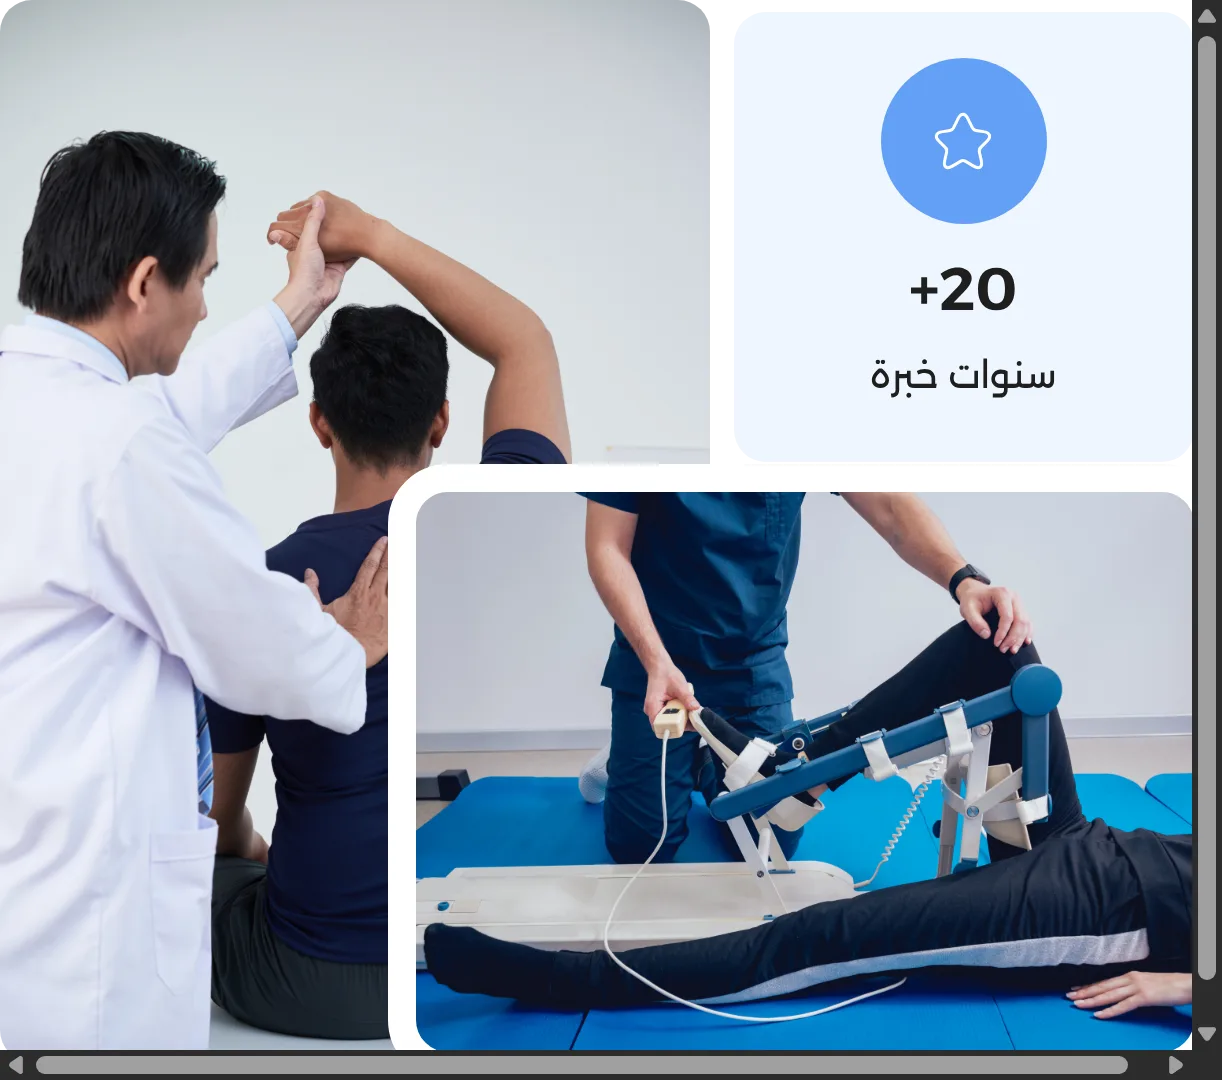
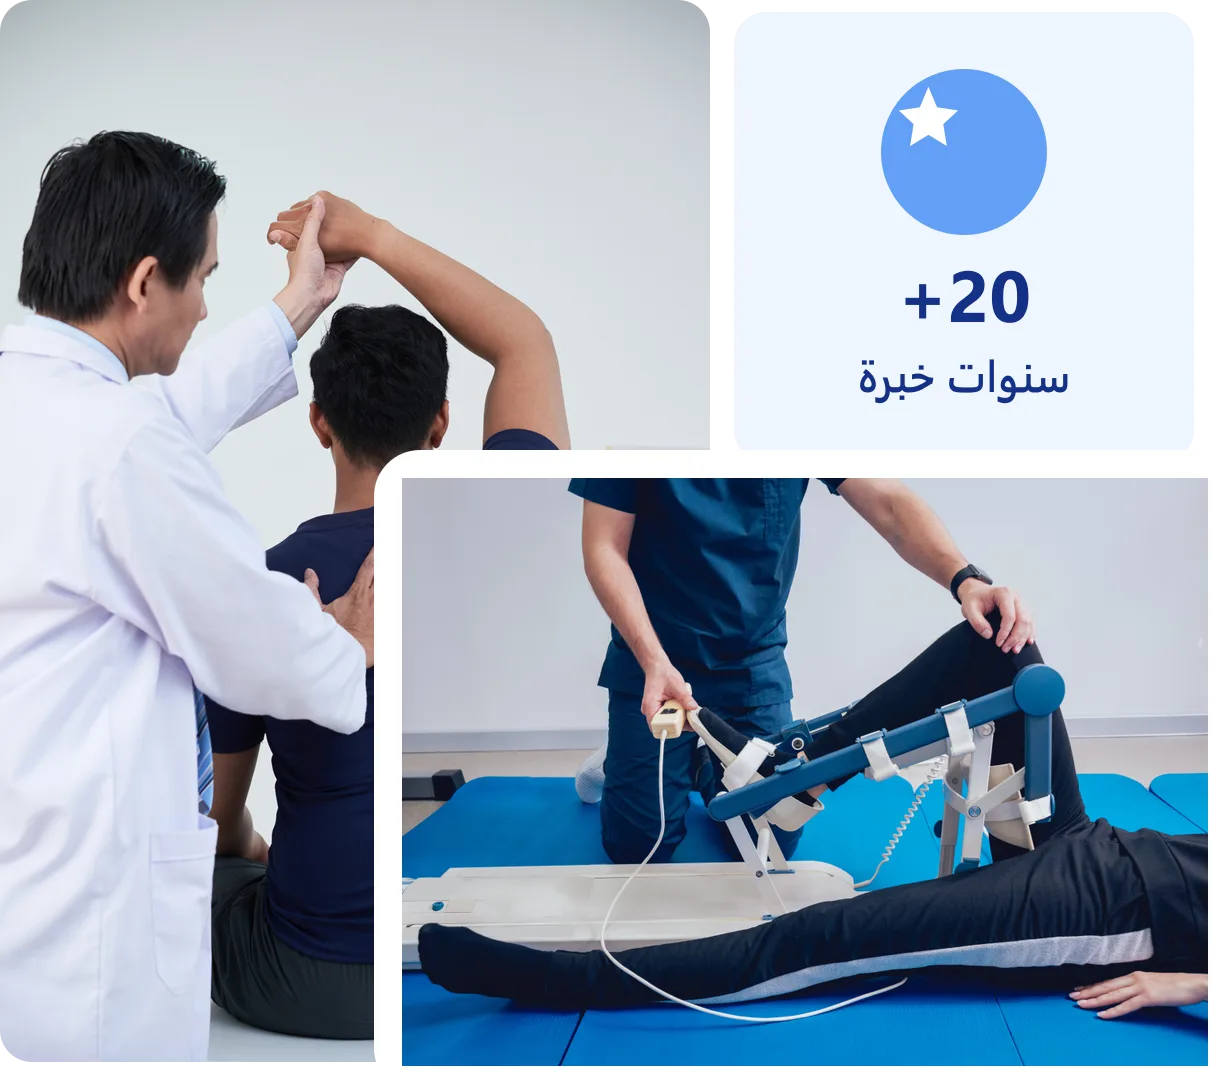
handel updates

diff --git a/src/app/[locale]/(SharedLayout)/(homepage)/_components/AboutAppTwoColumns.tsx b/src/app/[locale]/(SharedLayout)/(homepage)/_components/AboutAppTwoColumns.tsx
@@ -3,20 +3,65 @@
 import Link from "next/link";
 import Image from "next/image";
 import { motion, useReducedMotion } from "framer-motion";
-import { ArrowLeft } from "lucide-react";
+import { ArrowLeft, Star } from "lucide-react";
 import { parseCmsHtml } from "@/lib/parse-cms-html";
 import { toSecureMediaUrl } from "@/lib/image-url";
 import { useIsMobile } from "@/Hooks/use-mobile";
 
-function resolveAboutImage(aboutHomeSection?: any): string {
-  const cms = toSecureMediaUrl(
-    aboutHomeSection?.Posts?.[0]?.attachment?.[0]?.original,
+function AboutCollage({
+  locale,
+  title,
+}: {
+  locale: string;
+  title?: string;
+}) {
+  const alt =
+    title || (locale === "ar" ? "عن هوم هيليرز" : "About Home Healers");
+
+  return (
+    <div
+      className="relative mx-auto aspect-[611/540] w-full max-w-[597px]"
+      aria-label={alt}
+    >
+      {/* Tall left photo */}
+      <div className="absolute inset-y-0 start-0 w-[58%] overflow-hidden rounded-2xl">
+        <Image
+          src="/assets/images/homehellers/about-photo-1.webp"
+          alt=""
+          fill
+          priority
+          sizes="(max-width: 1280px) 60vw, 350px"
+          className="object-cover object-[center_20%]"
+          quality={80}
+        />
+      </div>
+
+      {/* Experience card */}
+      <div className="absolute end-0 top-[1%] flex h-[42%] w-[37.5%] flex-col items-center justify-center rounded-2xl bg-[#eff6fe] px-3 text-center">
+        <div className="mb-3 flex h-14 w-14 items-center justify-center rounded-full bg-[#62a0f6] sm:mb-4 sm:h-[83px] sm:w-[83px]">
+          <Star className="h-7 w-7 fill-white text-white sm:h-9 sm:w-9" />
+        </div>
+        <p className="text-2xl font-bold leading-none text-[#143087] sm:text-[34px]">
+          +20
+        </p>
+        <p className="mt-1 text-sm font-semibold text-[#143087] sm:mt-2 sm:text-lg">
+          {locale === "ar" ? "سنوات خبرة" : "Years Experience"}
+        </p>
+      </div>
+
+      {/* Overlapping bottom photo */}
+      <div className="absolute bottom-0 end-0 h-[54.5%] w-[66%] overflow-hidden rounded-[23px] border-[10px] border-white bg-white shadow-[0_12px_30px_rgba(20,48,135,0.08)] sm:border-[14px]">
+        <Image
+          src="/assets/images/homehellers/about-photo-2.webp"
+          alt=""
+          fill
+          sizes="(max-width: 1280px) 65vw, 400px"
+          className="object-cover object-center"
+          quality={80}
+        />
+      </div>
+    </div>
   );
-  // Prefer CMS attachment; only fall back for missing / legacy about.svg.
-  if (!cms || /about\.svg(\?|$)/i.test(cms)) {
-    return "/assets/images/homehellers/about-composed.webp";
-  }
-  return cms;
 }
 
 function AboutApp({
@@ -32,81 +77,75 @@ function AboutApp({
   const isMobile = useIsMobile();
   const prefersReducedMotion = useReducedMotion();
   const simplifyMotion = isMobile || !!prefersReducedMotion;
-  const aboutSrc = resolveAboutImage(aboutHomeSection);
+  const post = aboutHomeSection?.Posts?.[0];
+
+  // Keep collage on the visual left and copy on the right (matches original design).
+  const rowDir = locale === "ar" ? "ltr" : "rtl";
+  const copyAlign = locale === "ar" ? "items-end text-end" : "items-start text-start";
 
   return (
     <div
-      className={`flex w-full min-w-0 max-w-full flex-col items-center justify-between gap-8 rtl:ltr ltr:rtl xl:flex-row xl:items-center xl:gap-10 ${
-        showCta ? "mb-10 xl:mb-[91px]" : ""
+      className={`flex w-full min-w-0 max-w-full flex-col items-center gap-10 xl:flex-row xl:items-center xl:justify-between xl:gap-14 ${
+        showCta ? "mb-10 xl:mb-[91px]" : "mb-6"
       }`}
+      dir={rowDir}
     >
       <motion.div
-        className="relative aspect-[597/531] w-full min-w-0 max-w-[597px] overflow-hidden xl:w-1/2 xl:max-w-none"
+        className="w-full min-w-0 max-w-[597px] shrink-0 xl:w-[48%]"
         initial={{ opacity: 0 }}
         whileInView={{ opacity: 1 }}
         transition={{ duration: simplifyMotion ? 0.4 : 0.7, ease: "easeOut" }}
         viewport={{ once: true, amount: 0.2 }}
       >
-        <Image
-          src={aboutSrc}
-          alt={
-            aboutHomeSection?.Posts?.[0]?.title ||
-            (locale === "ar" ? "عن هوم هيليرز" : "About Home Healers")
-          }
-          fill
-          priority
-          sizes="(max-width: 1280px) 100vw, 50vw"
-          className="object-contain object-center"
-          quality={75}
-        />
+        <AboutCollage locale={locale} title={post?.title} />
       </motion.div>
 
       <motion.div
-        className="flex w-full min-w-0 max-w-[660px] flex-col items-end gap-6 sm:gap-8 xl:w-1/2 xl:max-w-none"
+        className={`flex w-full min-w-0 max-w-[660px] flex-col gap-6 sm:gap-8 xl:w-[48%] xl:max-w-none ${copyAlign}`}
         initial={{ opacity: 0 }}
         whileInView={{ opacity: 1 }}
         transition={{ duration: simplifyMotion ? 0.4 : 0.7, ease: "easeOut" }}
         viewport={{ once: true, amount: 0.2 }}
       >
-        <div className="flex w-full min-w-0 flex-col items-end gap-4 text-end">
+        <div className={`flex w-full min-w-0 flex-col gap-4 ${copyAlign}`}>
           <span className="text-sm font-medium text-[#62a0f6] sm:text-base">
             {locale === "ar" ? "عن هوم هيليرز" : "About Home Healers"}
           </span>
-          <h2 className="max-w-full break-words text-xl font-semibold text-[#1e1e1e] sm:text-2xl xl:text-[30px]">
-            {aboutHomeSection?.Posts?.[0]?.title || ""}
+          <h2 className="max-w-full break-words text-xl font-semibold leading-snug text-[#1e1e1e] sm:text-2xl xl:text-[30px] xl:leading-10">
+            {post?.title || ""}
           </h2>
           <div className="editor-content w-full min-w-0 max-w-full break-words text-base leading-7 text-[#1e1e1e] sm:text-lg sm:leading-8 [&_img]:h-auto [&_img]:max-w-full [&_table]:block [&_table]:max-w-full [&_table]:overflow-x-auto">
-            {aboutHomeSection?.Posts?.[0]?.description
-              ? parseCmsHtml(aboutHomeSection?.Posts[0]?.description)
-              : ""}
+            {post?.description ? parseCmsHtml(post.description) : ""}
           </div>
         </div>
 
-        <div className="flex flex-col items-end gap-4 text-end">
-          {latestPosts.map((post: any, i: number) => (
-            <motion.div
-              key={i}
-              className="flex items-center gap-3"
-              initial={{ opacity: 0 }}
-              whileInView={{ opacity: 1 }}
-              transition={{
-                delay: simplifyMotion ? 0.08 * i : 0.2 + i * 0.15,
-                duration: 0.4,
-              }}
-              viewport={{ once: true, amount: 0.2 }}
-            >
-              <span className="text-sm font-light text-[#1e1e1e] sm:text-base xl:text-lg">
-                {post.title}
-              </span>
-              <div
-                className="h-6 w-6 shrink-0 bg-cover bg-center bg-no-repeat"
-                style={{
-                  backgroundImage: `url(${toSecureMediaUrl(post.attachment?.[0]?.original)})`,
+        {latestPosts.length > 0 ? (
+          <div className={`flex flex-col gap-4 ${copyAlign}`}>
+            {latestPosts.map((item: any, i: number) => (
+              <motion.div
+                key={item?.id ?? i}
+                className="flex items-center gap-3"
+                initial={{ opacity: 0 }}
+                whileInView={{ opacity: 1 }}
+                transition={{
+                  delay: simplifyMotion ? 0.08 * i : 0.2 + i * 0.15,
+                  duration: 0.4,
                 }}
-              />
-            </motion.div>
-          ))}
-        </div>
+                viewport={{ once: true, amount: 0.2 }}
+              >
+                <span className="text-sm font-light text-[#1e1e1e] sm:text-base xl:text-lg">
+                  {item.title}
+                </span>
+                <div
+                  className="h-6 w-6 shrink-0 bg-cover bg-center bg-no-repeat"
+                  style={{
+                    backgroundImage: `url(${toSecureMediaUrl(item.attachment?.[0]?.original)})`,
+                  }}
+                />
+              </motion.div>
+            ))}
+          </div>
+        ) : null}
 
         {showCta ? (
           <div className="mt-2 flex items-center gap-4 sm:mt-4 sm:gap-6">

diff --git a/src/app/[locale]/(SharedLayout)/(homepage)/_components/DownloadApp.tsx b/src/app/[locale]/(SharedLayout)/(homepage)/_components/DownloadApp.tsx
@@ -13,14 +13,14 @@ function DownloadApp({ section, locale }: { section: any; locale: string }) {
     amount: 0.3,
   });
 
-  const post = section?.Posts?.[0]; // safely get the first post
+  const post = section?.Posts?.[0];
 
   return (
     <div className="relative mx-4 my-12 overflow-hidden rounded-[32px] bg-[#eff6fe] shadow-[0_18px_50px_rgba(20,48,135,0.08)] sm:mx-6 lg:mx-auto lg:max-w-7xl">
       <div className="flex flex-col lg:flex-row">
         {/* End side with content - becomes bottom on mobile */}
-        <div className="w-full lg:w-1/2 p-6 lg:p-10 flex flex-col justify-center relative">
-          <div className="flex flex-col gap-8 items-start relative z-10">
+        <div className="relative flex w-full flex-col justify-center p-6 lg:w-1/2 lg:p-10">
+          <div className="relative z-10 flex flex-col items-start gap-8">
             <AppHeader title={section?.title} description={post?.description} />
             <AppRating locale={locale} />
             <DownloadButtons locale={locale} />
@@ -28,13 +28,10 @@ function DownloadApp({ section, locale }: { section: any; locale: string }) {
         </div>
 
         {/* Left side with app image - becomes top on mobile */}
-        <div
-          ref={containerRef}
-          className="relative w-full min-w-0 overflow-hidden lg:w-1/2"
-        >
+        <div ref={containerRef} className="relative w-full lg:w-1/2">
           {/* First Image (coming from left to right) */}
           <motion.div
-            className="absolute inset-0 z-10"
+            className="absolute top-0 left-0 z-10 h-full w-full"
             initial={{ x: "-100%" }}
             animate={isInView ? { x: 0 } : { x: "-100%" }}
             transition={{
@@ -58,8 +55,8 @@ function DownloadApp({ section, locale }: { section: any; locale: string }) {
           {/* Second Image (coming from bottom to top) */}
           <motion.div
             className="relative z-20 mx-auto px-4 py-6 lg:mx-0 lg:p-0"
-            initial={{ y: "40%", opacity: 0 }}
-            animate={isInView ? { y: 0, opacity: 1 } : { y: "40%", opacity: 0 }}
+            initial={{ y: "100%" }}
+            animate={isInView ? { y: 0 } : { y: "100%" }}
             transition={{
               type: "spring",
               stiffness: 100,
@@ -69,13 +66,13 @@ function DownloadApp({ section, locale }: { section: any; locale: string }) {
             }}
           >
             <img
-              src="/assets/images/homehellers/landing_page_01.webp"
+              src="/assets/images/homehellers/landing_page_01.svg"
               alt="App screenshot"
               width={448}
               height={560}
               loading="lazy"
               decoding="async"
-              className="w-full max-w-xs lg:max-w-md mx-auto lg:mx-8 h-auto object-contain"
+              className="mx-auto h-auto w-full max-w-xs object-contain lg:mx-8 lg:max-w-md"
             />
           </motion.div>
         </div>

diff --git a/src/app/[locale]/(SharedLayout)/about/page.tsx b/src/app/[locale]/(SharedLayout)/about/page.tsx
@@ -90,7 +90,7 @@ async function page({ params }: { params: Promise<{ locale: string }> }) {
           ]}
         />
 
-        <div className="mx-auto mt-10 flex w-full min-w-0 max-w-screen-xl flex-col items-center px-4 sm:mt-16 sm:px-6 lg:mt-24 lg:px-8">
+        <div className="mx-auto mt-10 w-full min-w-0 max-w-screen-xl px-4 sm:mt-16 sm:px-6 lg:mt-20 lg:px-8">
           <AboutAppTwoColumns
             aboutHomeSection={slimHomeSection(aboutSection, 4)}
             locale={locale}
